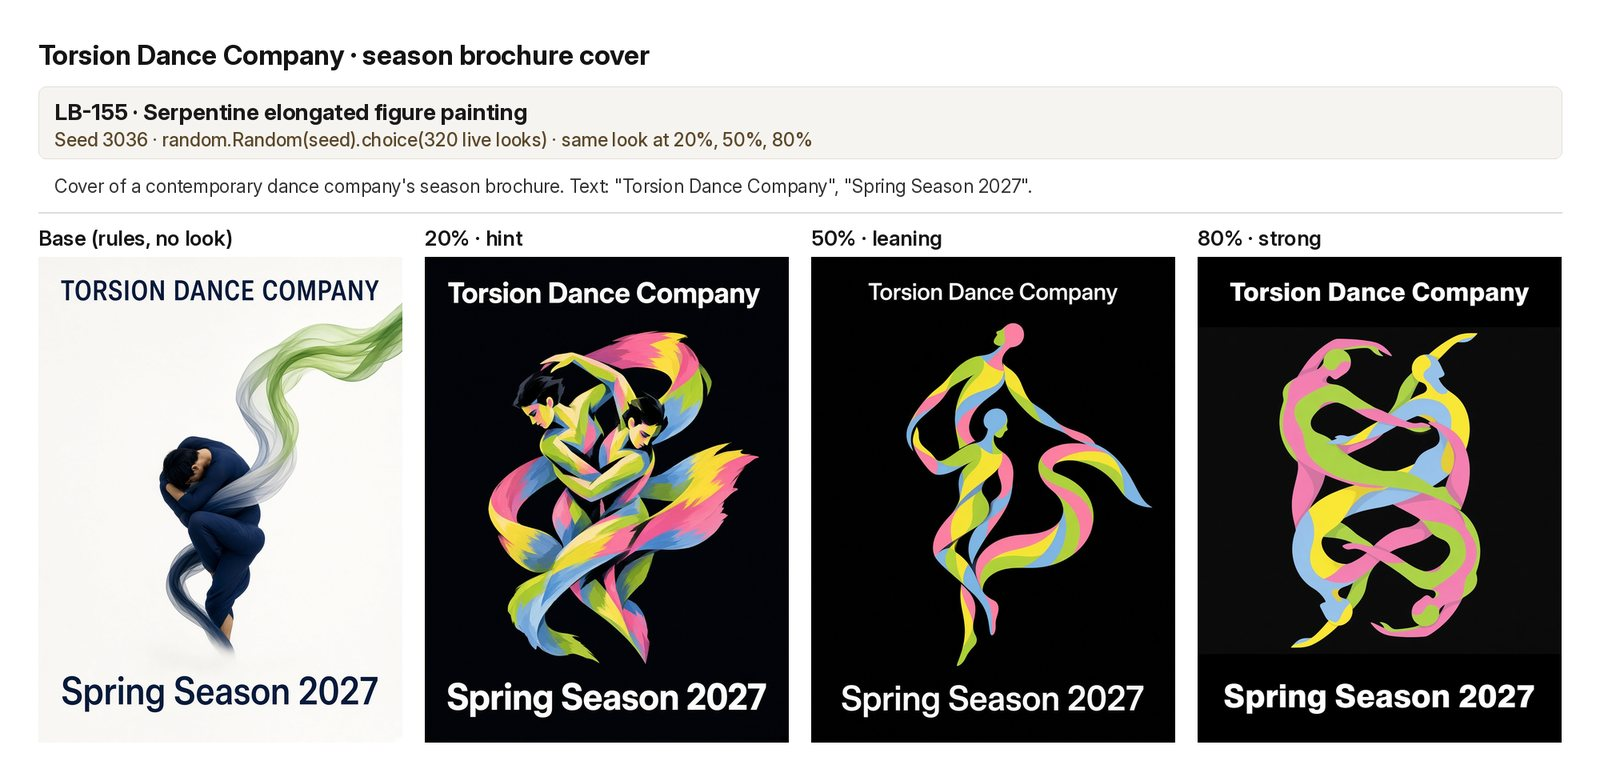
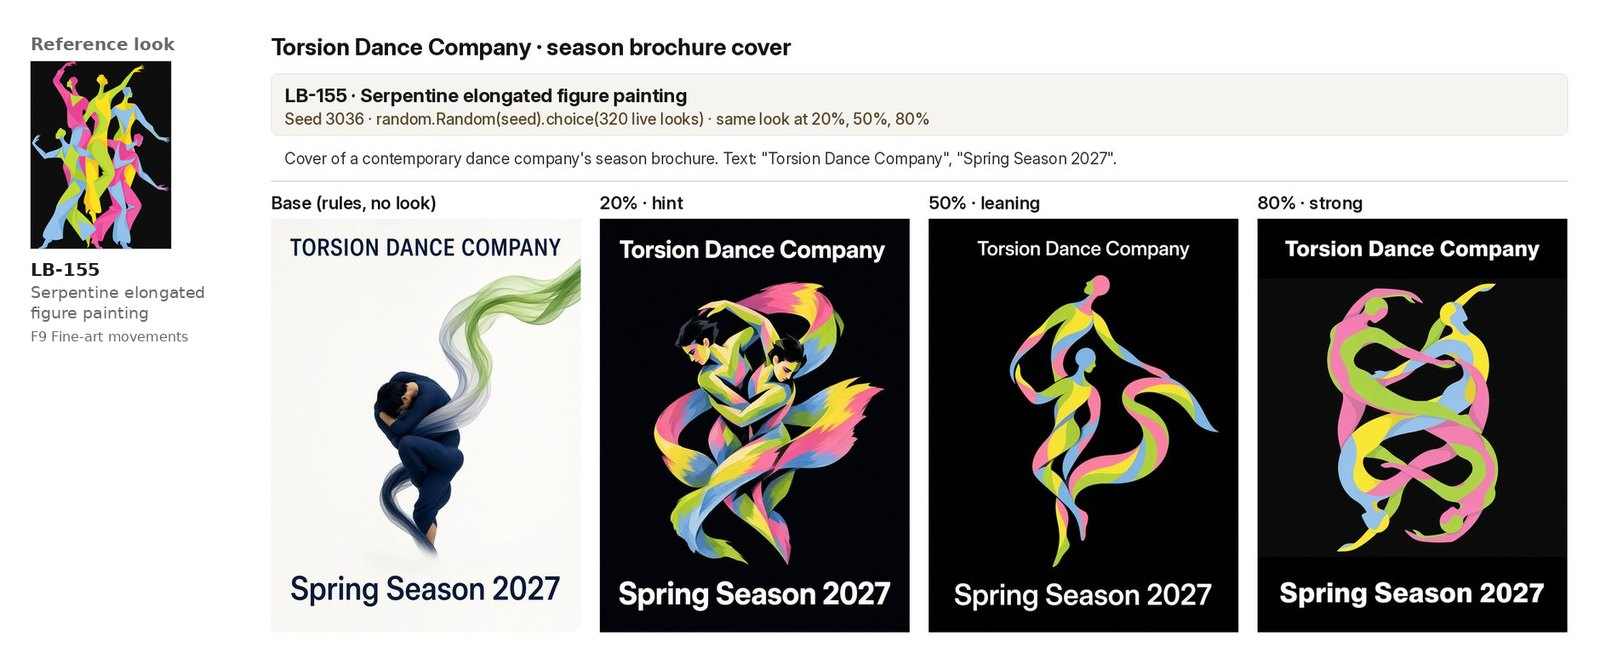
Style bleed: add four textless control/20/50 rows, reference thumbnails on every sheet, drop Page not found

diff --git a/examples/lookbook-strength/README.md b/examples/lookbook-strength/README.md
@@ -1,6 +1,6 @@
 # Lookbook strength: how far to turn the dial
 
-Four of the 21 sheets are below; the rest stay out of the repo. This is the internal evidence behind LOOK-1 to LOOK-3 (`modules/lookbook/README.md`). It is owner-judged, a small sample with one render per level, and not blind: treat it as craft wisdom, not a test result.
+Three of the 21 sheets are below, with four textless rows from a later random set; the rest stay out of the repo. This is the internal evidence behind LOOK-1 to LOOK-3 (`modules/lookbook/README.md`). It is owner-judged, a small sample with one render per level, and not blind: treat it as craft wisdom, not a test result.
 
 **How it was made** (v0.9.7, one image model). 21 invented briefs in varied domains, most with exact copy: posters, covers, labels, packaging, a stamp, a ticket, a tote, a skate deck, a web page, a product render, a chapter opener and others. Each brief got a **base** render (the full rules, no look) and three renders with **one** look at 20% (hint), 50% (leaning) and 80% (strong), as the strength dial defines them. Briefs 1-15 drew their look at random (`random.Random(seed).choice` over the 320 live looks, one seed per brief). Briefs 16-21 tested Family 8 (LB-SD10 to LB-SD15), one look each, two of them on briefs outside the look's `use` list. No real people. The best level per brief was picked by the agent and reviewed by the owner of the work, who judged 20-50% the sweet spot.
 
@@ -19,14 +19,22 @@ Four of the 21 sheets are below; the rest stay out of the repo. This is the inte
 
 **At 20%** the change was often too small to see; it won once, where one loud palette move was enough. Copy was exact on every render that carried text; words are by the image model, one render per level.
 
-## Four sheets
+## Seven sheets
 
-Base, then 20, 50 and 80%. Web-sized copies (1,600 px JPEGs).
+Each sheet starts with a small thumbnail of the [lookbook](../../modules/lookbook/) look doing the influencing, then that look applied to one brief at rising strength. The first four are textless previews: a control render (no look), then 20 and 50%. The last three are finished designs with copy: a base render (full rules, no look), then 20, 50 and 80%. LOOK-1 keeps looks at 20-50% by default; LOOK-2 allows 80% only when the look's structure carries the brief's idea, after a check that its subject hasn't crept in.
 
-[<img alt="LOW END club poster, base and one collage look at 20, 50 and 80%: a hooded figure under sound rings, then torn newsprint strips, then CMY circles behind the head." src="sheets/17-low-end.jpg" width="100%">](sheets/17-low-end.jpg)<br>**LOW END: 80% won.** The look's CMY circles read as speaker cones and its type strips stay illegible; at 50% the scraps carried near-words.
+[<img alt="Heron Jar jam jar label, control and one White-line block print look at 20 and 50%: 20% breaks the sky into white-ringed cells, 50% breaks the whole scene into flat colour cells divided by even white channels." src="sheets/b02-02-heron-jar.jpg" width="100%">](sheets/b02-02-heron-jar.jpg)<br>**Heron Jar: 50% won.** 20% only showed the white lines once the prompt dropped the control as a reference, so the oval is a little different from the control. *(LB-122 White-line block print; a heron standing in reeds, theme curiosity.)*
 
-[<img alt="Cold Open podcast cover, base and one three-ink poster look at 20, 50 and 80%: a figure under a street lamp, then a coat figure in red and navy blocks, then a woman with a red bar across her eyes." src="sheets/16-cold-open.jpg" width="100%">](sheets/16-cold-open.jpg)<br>**Cold Open: 80% won, with creep.** The red block became a redaction bar across the eyes, right for true crime, but the brief's anonymous coat figure turned into the look's own glamorous woman.
+[<img alt="Beetle Lens album cover, control and one Circle-framed crest look at 20 and 50%: 20% sets the scene on indigo inside a white laurel ring, 50% flattens it into a centred white-on-indigo crest." src="sheets/b02-03-beetle-lens.jpg" width="100%">](sheets/b02-03-beetle-lens.jpg)<br>**Beetle Lens: 50% won,** and her skin holds at every level. All three versions have one flaw in common: the beetle in the lens is a second beetle, not the one on the leaf. *(LB-082 Circle-framed crest; a child with a magnifying glass looking at a beetle, theme play.)*
 
-[<img alt="Torsion Dance Company brochure, base and one serpentine-figure look at 20, 50 and 80%: one curled dancer, then ribbon-painted pairs, then figures wrung into one knot." src="sheets/06-torsion-dance.jpg" width="100%">](sheets/06-torsion-dance.jpg)<br>**Torsion Dance: 80% won.** The look's structure is the brief's idea: figures wrung into one ribbon knot are the strongest read of "torsion".
+[<img alt="Baker magazine spread opener, control and one WPA Federal Art Project silkscreen poster look at 20 and 50%: 20% flattens the colour into silkscreen inks, 50% is a five-ink WPA-style screenprint with a bold empty slate band." src="sheets/b02-07-baker.jpg" width="100%">](sheets/b02-07-baker.jpg)<br>**Baker: 50% won,** and his skin holds. The first 50% barely moved from the control and needed a reroll. *(LB-007 WPA Federal Art Project silkscreen poster; a baker pulling bread from an oven, theme abundance.)*
 
-[<img alt="Page not found web page, base and one grey-bevel desktop look at 20, 50 and 80%: a sketched paper boat, then one bevelled window, then a whole fake desktop with icons and a task bar." src="sheets/14-page-not-found.jpg" width="100%">](sheets/14-page-not-found.jpg)<br>**Page not found: 50% won; 80% crept.** One bevelled dialog on teal is nostalgic and still a web page; at 80% icons, a task bar and a start button made it a fake desktop.
+[<img alt="Balloon Season podcast cover, control and one Contour Lozenge Drift look at 20 and 50%: 20% lays thin contour rings over the fields under a flat sage sky, 50% frames the farmland in a tilted lozenge with contour rings and a pale ring behind the balloon." src="sheets/b02-09-balloon-season.jpg" width="100%">](sheets/b02-09-balloon-season.jpg)<br>**Balloon Season: 50% won.** No head crept in. *(LB-R05R17 Contour Lozenge Drift; a hot-air balloon over farmland, theme change of season.)*
+
+[<img alt="LOW END club poster, base and one collage look at 20, 50 and 80%, with the look's lookbook image as a reference thumbnail: a hooded figure under sound rings, then torn newsprint strips, then CMY circles behind the head." src="sheets/17-low-end.jpg" width="100%">](sheets/17-low-end.jpg)<br>**LOW END: 80% won.** The look's CMY circles read as speaker cones and its type strips stay illegible; at 50% the scraps carried near-words. *(LB-SD11 CMYK Newsprint Collage.)*
+
+[<img alt="Cold Open podcast cover, base and one three-ink poster look at 20, 50 and 80%, with the look's lookbook image as a reference thumbnail: a figure under a street lamp, then a coat figure in red and navy blocks, then a woman with a red bar across her eyes." src="sheets/16-cold-open.jpg" width="100%">](sheets/16-cold-open.jpg)<br>**Cold Open: 80% won, with creep.** The red block became a redaction bar across the eyes, right for true crime, but the brief's anonymous coat figure turned into the look's own glamorous woman. *(LB-SD10 Three-Ink Block Poster.)*
+
+[<img alt="Torsion Dance Company brochure, base and one serpentine-figure look at 20, 50 and 80%, with the look's lookbook image as a reference thumbnail: one curled dancer, then ribbon-painted pairs, then figures wrung into one knot." src="sheets/06-torsion-dance.jpg" width="100%">](sheets/06-torsion-dance.jpg)<br>**Torsion Dance: 80% won.** The look's structure is the brief's idea: figures wrung into one ribbon knot are the strongest read of "torsion". *(LB-155 Serpentine elongated figure painting.)*
+
+Seven sheets, picked by the owner of the work, one kept render per level, not blind. The four textless rows come from a set of ten random bleeds (looks, subjects, themes and domains drawn at random); the three 20/50/80 rows are from the 21-sheet test.

diff --git a/README.md b/README.md
@@ -28,17 +28,23 @@ Illustrative, not test evidence: one sample each, with six of ten pairs picked b
 
 ## Style bleed
 
-Each sheet is a base render (full rules, no look) beside one [lookbook](modules/lookbook/) look at 20, 50 and 80%. LOOK-1 keeps looks at 20-50% by default; LOOK-2 allows 80% only when the look's structure carries the brief's idea, after a check that its subject hasn't crept in.
+Each sheet starts with a small thumbnail of the [lookbook](modules/lookbook/) look doing the influencing, then that look applied to one brief at rising strength. The first four are textless previews: a control render (no look), then 20 and 50%. The last three are finished designs with copy: a base render (full rules, no look), then 20, 50 and 80%. LOOK-1 keeps looks at 20-50% by default; LOOK-2 allows 80% only when the look's structure carries the brief's idea, after a check that its subject hasn't crept in.
 
-[<img alt="LOW END club poster, base and one collage look at 20, 50 and 80%: a hooded figure under sound rings, then torn newsprint strips, then CMY circles behind the head." src="examples/lookbook-strength/sheets/17-low-end.jpg" width="100%">](examples/lookbook-strength/sheets/17-low-end.jpg)<br>**LOW END: 80% won.** The look's CMY circles read as speaker cones and its type strips stay illegible; at 50% the scraps carried near-words.
+[<img alt="Heron Jar jam jar label, control and one White-line block print look at 20 and 50%: 20% breaks the sky into white-ringed cells, 50% breaks the whole scene into flat colour cells divided by even white channels." src="examples/lookbook-strength/sheets/b02-02-heron-jar.jpg" width="100%">](examples/lookbook-strength/sheets/b02-02-heron-jar.jpg)<br>**Heron Jar: 50% won.** 20% only showed the white lines once the prompt dropped the control as a reference, so the oval is a little different from the control. *(LB-122 White-line block print; a heron standing in reeds, theme curiosity.)*
 
-[<img alt="Cold Open podcast cover, base and one three-ink poster look at 20, 50 and 80%: a figure under a street lamp, then a coat figure in red and navy blocks, then a woman with a red bar across her eyes." src="examples/lookbook-strength/sheets/16-cold-open.jpg" width="100%">](examples/lookbook-strength/sheets/16-cold-open.jpg)<br>**Cold Open: 80% won, with creep.** The red block became a redaction bar across the eyes, right for true crime, but the brief's anonymous coat figure turned into the look's own glamorous woman.
+[<img alt="Beetle Lens album cover, control and one Circle-framed crest look at 20 and 50%: 20% sets the scene on indigo inside a white laurel ring, 50% flattens it into a centred white-on-indigo crest." src="examples/lookbook-strength/sheets/b02-03-beetle-lens.jpg" width="100%">](examples/lookbook-strength/sheets/b02-03-beetle-lens.jpg)<br>**Beetle Lens: 50% won,** and her skin holds at every level. All three versions have one flaw in common: the beetle in the lens is a second beetle, not the one on the leaf. *(LB-082 Circle-framed crest; a child with a magnifying glass looking at a beetle, theme play.)*
 
-[<img alt="Torsion Dance Company brochure, base and one serpentine-figure look at 20, 50 and 80%: one curled dancer, then ribbon-painted pairs, then figures wrung into one knot." src="examples/lookbook-strength/sheets/06-torsion-dance.jpg" width="100%">](examples/lookbook-strength/sheets/06-torsion-dance.jpg)<br>**Torsion Dance: 80% won.** The look's structure is the brief's idea: figures wrung into one ribbon knot are the strongest read of "torsion".
+[<img alt="Baker magazine spread opener, control and one WPA Federal Art Project silkscreen poster look at 20 and 50%: 20% flattens the colour into silkscreen inks, 50% is a five-ink WPA-style screenprint with a bold empty slate band." src="examples/lookbook-strength/sheets/b02-07-baker.jpg" width="100%">](examples/lookbook-strength/sheets/b02-07-baker.jpg)<br>**Baker: 50% won,** and his skin holds. The first 50% barely moved from the control and needed a reroll. *(LB-007 WPA Federal Art Project silkscreen poster; a baker pulling bread from an oven, theme abundance.)*
 
-[<img alt="Page not found web page, base and one grey-bevel desktop look at 20, 50 and 80%: a sketched paper boat, then one bevelled window, then a whole fake desktop with icons and a task bar." src="examples/lookbook-strength/sheets/14-page-not-found.jpg" width="100%">](examples/lookbook-strength/sheets/14-page-not-found.jpg)<br>**Page not found: 50% won; 80% crept.** One bevelled dialog on teal is nostalgic and still a web page; at 80% icons, a task bar and a start button made it a fake desktop.
+[<img alt="Balloon Season podcast cover, control and one Contour Lozenge Drift look at 20 and 50%: 20% lays thin contour rings over the fields under a flat sage sky, 50% frames the farmland in a tilted lozenge with contour rings and a pale ring behind the balloon." src="examples/lookbook-strength/sheets/b02-09-balloon-season.jpg" width="100%">](examples/lookbook-strength/sheets/b02-09-balloon-season.jpg)<br>**Balloon Season: 50% won.** No head crept in. *(LB-R05R17 Contour Lozenge Drift; a hot-air balloon over farmland, theme change of season.)*
 
-Four of 21 sheets, picked by the owner of the work; one render per level, not blind. Tally and notes: [examples/lookbook-strength/](examples/lookbook-strength/README.md).
+[<img alt="LOW END club poster, base and one collage look at 20, 50 and 80%, with the look's lookbook image as a reference thumbnail: a hooded figure under sound rings, then torn newsprint strips, then CMY circles behind the head." src="examples/lookbook-strength/sheets/17-low-end.jpg" width="100%">](examples/lookbook-strength/sheets/17-low-end.jpg)<br>**LOW END: 80% won.** The look's CMY circles read as speaker cones and its type strips stay illegible; at 50% the scraps carried near-words. *(LB-SD11 CMYK Newsprint Collage.)*
+
+[<img alt="Cold Open podcast cover, base and one three-ink poster look at 20, 50 and 80%, with the look's lookbook image as a reference thumbnail: a figure under a street lamp, then a coat figure in red and navy blocks, then a woman with a red bar across her eyes." src="examples/lookbook-strength/sheets/16-cold-open.jpg" width="100%">](examples/lookbook-strength/sheets/16-cold-open.jpg)<br>**Cold Open: 80% won, with creep.** The red block became a redaction bar across the eyes, right for true crime, but the brief's anonymous coat figure turned into the look's own glamorous woman. *(LB-SD10 Three-Ink Block Poster.)*
+
+[<img alt="Torsion Dance Company brochure, base and one serpentine-figure look at 20, 50 and 80%, with the look's lookbook image as a reference thumbnail: one curled dancer, then ribbon-painted pairs, then figures wrung into one knot." src="examples/lookbook-strength/sheets/06-torsion-dance.jpg" width="100%">](examples/lookbook-strength/sheets/06-torsion-dance.jpg)<br>**Torsion Dance: 80% won.** The look's structure is the brief's idea: figures wrung into one ribbon knot are the strongest read of "torsion". *(LB-155 Serpentine elongated figure painting.)*
+
+Seven sheets, picked by the owner of the work, one kept render per level, not blind. The four textless rows come from a set of ten random bleeds (looks, subjects, themes and domains drawn at random); the three 20/50/80 rows are from the 21-sheet test. Tally and notes: [examples/lookbook-strength/](examples/lookbook-strength/README.md).
 
 ## Install
 
